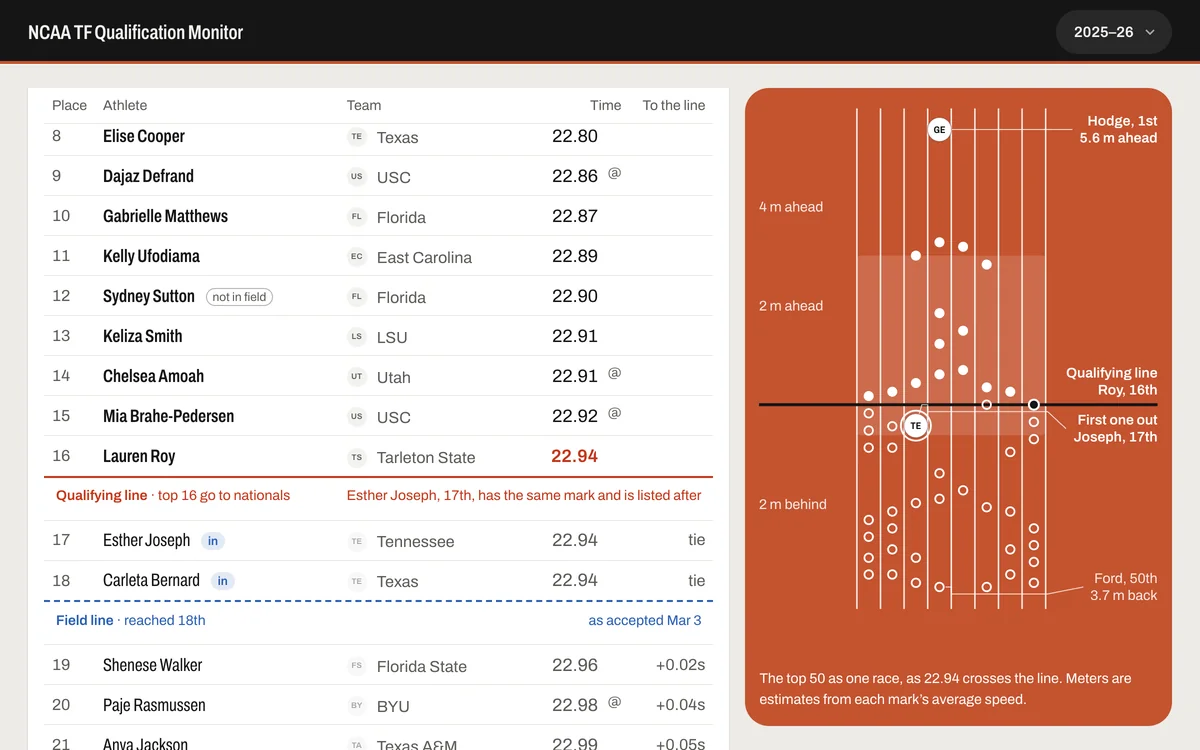
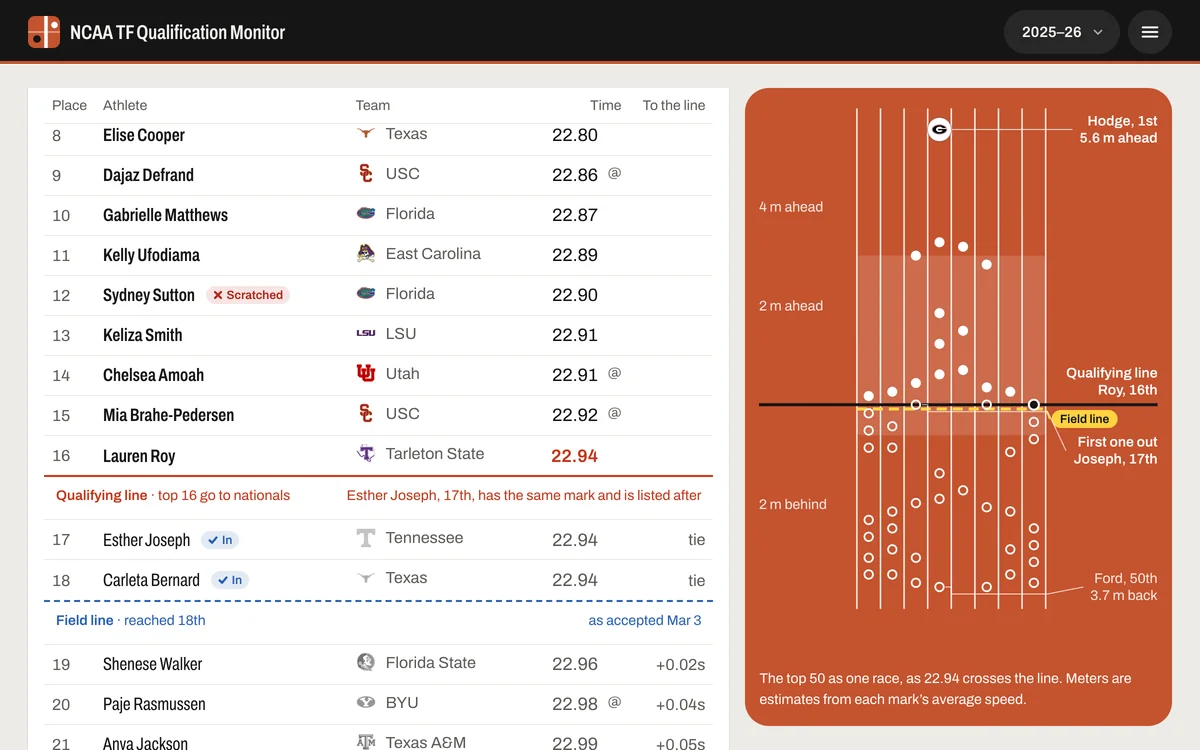
NCAA TF Qualification Monitor: draw jumps and throws on their venues, refresh screenshots

diff --git a/website/public/images/SOURCES.md b/website/public/images/SOURCES.md
@@ -11,7 +11,7 @@ Both photographs were resized to 960px wide and converted to WebP. These retaine
 
 Product screenshots and the personal photographs/video predate this artwork update. The route, envelope, browser frames, and track lines are original HTML/CSS/SVG artwork.
 
-`tfrrs.webp` (and `../projects/tfrrs-mile-table.webp`, `../projects/tfrrs-field-line.webp`, `../projects/tfrrs-outdoor-100.webp`, `../projects/tfrrs-nationals.webp`) are screenshots of the NCAA TF Qualification Monitor (`pierceseigne.com/ncaa-indoor-qualification/`) in its October 2026 version with the field line, deeper outdoor lists and nationals view, captured October 24, 2026 in light mode at 1200px wide and converted to WebP. They replace the October 18, 2026 captures of the earlier design.
+`tfrrs.webp` (and `../projects/tfrrs-mile-table.webp`, `../projects/tfrrs-field-line.webp`, `../projects/tfrrs-outdoor-100.webp`, `../projects/tfrrs-nationals.webp`, `../projects/tfrrs-shot-put.webp`) are screenshots of the NCAA TF Qualification Monitor (`pierceseigne.com/ncaa-indoor-qualification/`) in its October 2026 version with the field line, deeper outdoor lists and nationals view, captured October 24–25, 2026 in light mode at 1200px wide and converted to WebP. They replace the October 18, 2026 captures of the earlier design.
 
 `syllabus.webp` (and `../projects/syllabus-calendar.webp`, `../projects/syllabus-grading.webp`) are screenshots of the live Syllabus Analyzer's built-in CS571 demo, captured October 7, 2026. `time.webp` is a screenshot of the live Time Progress Visualizer's Year view, captured the same day; it replaces an earlier generated mockup.
 

diff --git a/website/public/projects/tfrrs-monitor.md b/website/public/projects/tfrrs-monitor.md
@@ -30,6 +30,12 @@ The qualifying line shows who should make the meet. It doesn't show who actually
 
 *Women's 100m at the 2026 nationals: 12 qualifiers came from each First Round, and 7 of the top 8 came from the East.*
 
+Jumps and throws are now drawn on their own venue. Each throw lands in its sector, with the qualifying line as an arc at the qualifying distance. High jumpers and vaulters sit at the height they cleared, against a bar set at the line. Long and triple jumps land in the sand past the board.
+
+![Women's indoor shot put for 2025–26: the top 50 throws landing in the throwing sector, the qualifying arc at 17.15 m, and the field line just inside it at 17th](/projects/tfrrs-shot-put.webp)
+
+*Women's shot put, indoors in 2025–26: the qualifying arc sits at 17.15 m, and the field reached one more thrower.*
+
 ---
 
 ## Tech Stack & Architecture
